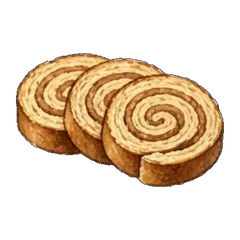
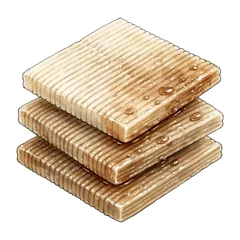
百万石バトル：治部煮の完成絵とすだれ麩の絵を新版に
Claude-Session: https://claude.ai/code/session_01F2h1wwexNhbWiPtHXpLWUy

diff --git a/hyakumangoku.html b/hyakumangoku.html
@@ -341,7 +341,7 @@ function pixelate(root){(root||document).querySelectorAll("svg[data-px]").forEac
 if(typeof MutationObserver!=="undefined")new MutationObserver(()=>pixelate()).observe(document.documentElement,{childList:true,subtree:true});
 
 /* ---------- 水彩の絵（MUSE作・透過WebP）で上書き ---------- */
-const IMGP=f=>`<img src="hyakumangoku_img/${f}.webp" alt="" draggable="false">`;
+const IMGP=f=>`<img src="hyakumangoku_img/${f}.webp?v=1108c" alt="" draggable="false">`;
 ART.nabe=IMGP("jibuni_nabe");
 {const F={"鴨肉":"kamo","すだれ麩":"sudarefu","せり":"seri","しいたけ":"shiitake","わさび":"wasabi","小麦粉":"komugiko","豆腐":"tofu","ねぎ":"negi","かまぼこ":"kamaboko","たまご":"tamago","ちくわ":"chikuwa","牛乳":"gyunyu"};for(const k in F)ART.ing[k]=IMGP("ing_"+F[k])}
 const VEGF={"さつまいも（五郎島金時）":"veg_imo","加賀れんこん":"veg_renkon","たけのこ":"veg_take","加賀太きゅうり":"veg_kyuri","金時草":"veg_kinjiso","加賀つるまめ":"veg_tsurumame","ヘタ紫なす":"veg_nasu","源助だいこん":"veg_gensuke","金沢せり":"veg_seri","打木赤皮甘栗かぼちゃ":"veg_kabocha","金沢一本太ねぎ":"veg_negi","二塚からしな":"veg_karashina","赤ずいき":"veg_zuiki","くわい":"veg_kuwai","金沢春菊":"veg_shungiku","青首だいこん":"nveg_aokubi","九条ねぎ":"nveg_kujo","聖護院かぶ":"nveg_shogoin","下仁田ねぎ":"nveg_shimonita","京みず菜":"nveg_mizuna","賀茂なす":"nveg_kamo","桜島だいこん":"nveg_sakurajima","万願寺とうがらし":"nveg_manganji","三浦だいこん":"nveg_miura","小松菜":"nveg_komatsuna"};
@@ -781,7 +781,7 @@ function home(){abar.className="abar";if(!S.lock)return register();
     <h2>${IC("saikoro")} ミニゲーム</h2>
     
     <div class="games">
-      <button class="gm" ${r.jibu!=null?"disabled":""} onclick="jibu()"><span class="gi"><img src="hyakumangoku_img/thumb_jibuni.webp" alt=""></span><b>治部煮をつくれ</b><small>${r.jibu!=null?"本日 +"+f1(r.jibu)+"石":(60+(waza("kyoyo",1)?10:0))+"秒"}</small></button>
+      <button class="gm" ${r.jibu!=null?"disabled":""} onclick="jibu()"><span class="gi"><img src="hyakumangoku_img/thumb_jibuni.webp?v=1108c" alt=""></span><b>治部煮をつくれ</b><small>${r.jibu!=null?"本日 +"+f1(r.jibu)+"石":(60+(waza("kyoyo",1)?10:0))+"秒"}</small></button>
       <button class="gm" ${r.kaga!=null?"disabled":""} onclick="kaga()"><span class="gi"><img src="hyakumangoku_img/thumb_yasai.webp" alt=""></span><b>加賀野菜 仕分け</b><small>${r.kaga!=null?"本日 +"+f1(r.kaga)+"石":(45+(waza("kyoyo",1)?10:0))+"秒"}</small></button>
     </div>
   </div>
@@ -1041,7 +1041,7 @@ function jibuPick(k){if(J.done)return;const el=$("#ing"+k),i=J.sel.indexOf(k);if
 function jibuFinish(){if(J.done)return;J.done=true;clearInterval(J.timer);let good=0,bad=0;
   J.items.forEach((it,k)=>{const el=$("#ing"+k),p=J.sel.includes(k);if(p&&it.ok){good++;el.classList.add("good")}if(p&&!it.ok){bad++;el.classList.add("bad")}if(!p&&it.ok)el.classList.add("miss")});
   const perfect=good===6&&bad===0;const got=addKoku(Math.max(0,(good-bad+(perfect?2+Math.floor(J.t/12):0))*.85),"治部煮","game");dayRec().jibu=got;save();const up=abUp("kyoyo",perfect?.5:GR(Math.max(0,good-bad)/6*.85));
-  abar.className="abar on";{const pi=$("#potimg");if(pi&&perfect){pi.src="hyakumangoku_img/thumb_jibuni.webp";const po=$("#pot");if(po)po.style.display="none"}}abar.innerHTML=`<div class="res">${perfect?IC("iwai")+" 完璧な治部煮！":`正しい具材 ${good}/6 ・ にせ具材 ${bad}`}</div><div class="mute" style="margin-bottom:8px">治部煮＝鴨肉（または鶏肉）に小麦粉をまぶし、だしで煮て、すだれ麩・しいたけ・せりを合わせ、わさびを添える。</div>${abTxt(up)}<button class="pri" onclick="home()">+${f1(got)}石 ・ ホームへ</button>`}
+  abar.className="abar on";{const pi=$("#potimg");if(pi&&perfect){pi.src="hyakumangoku_img/thumb_jibuni.webp?v=1108c";const po=$("#pot");if(po)po.style.display="none"}}abar.innerHTML=`<div class="res">${perfect?IC("iwai")+" 完璧な治部煮！":`正しい具材 ${good}/6 ・ にせ具材 ${bad}`}</div><div class="mute" style="margin-bottom:8px">治部煮＝鴨肉（または鶏肉）に小麦粉をまぶし、だしで煮て、すだれ麩・しいたけ・せりを合わせ、わさびを添える。</div>${abTxt(up)}<button class="pri" onclick="home()">+${f1(got)}石 ・ ホームへ</button>`}
 
 /* ---------- 加賀野菜 仕分け ---------- */
 let K;
